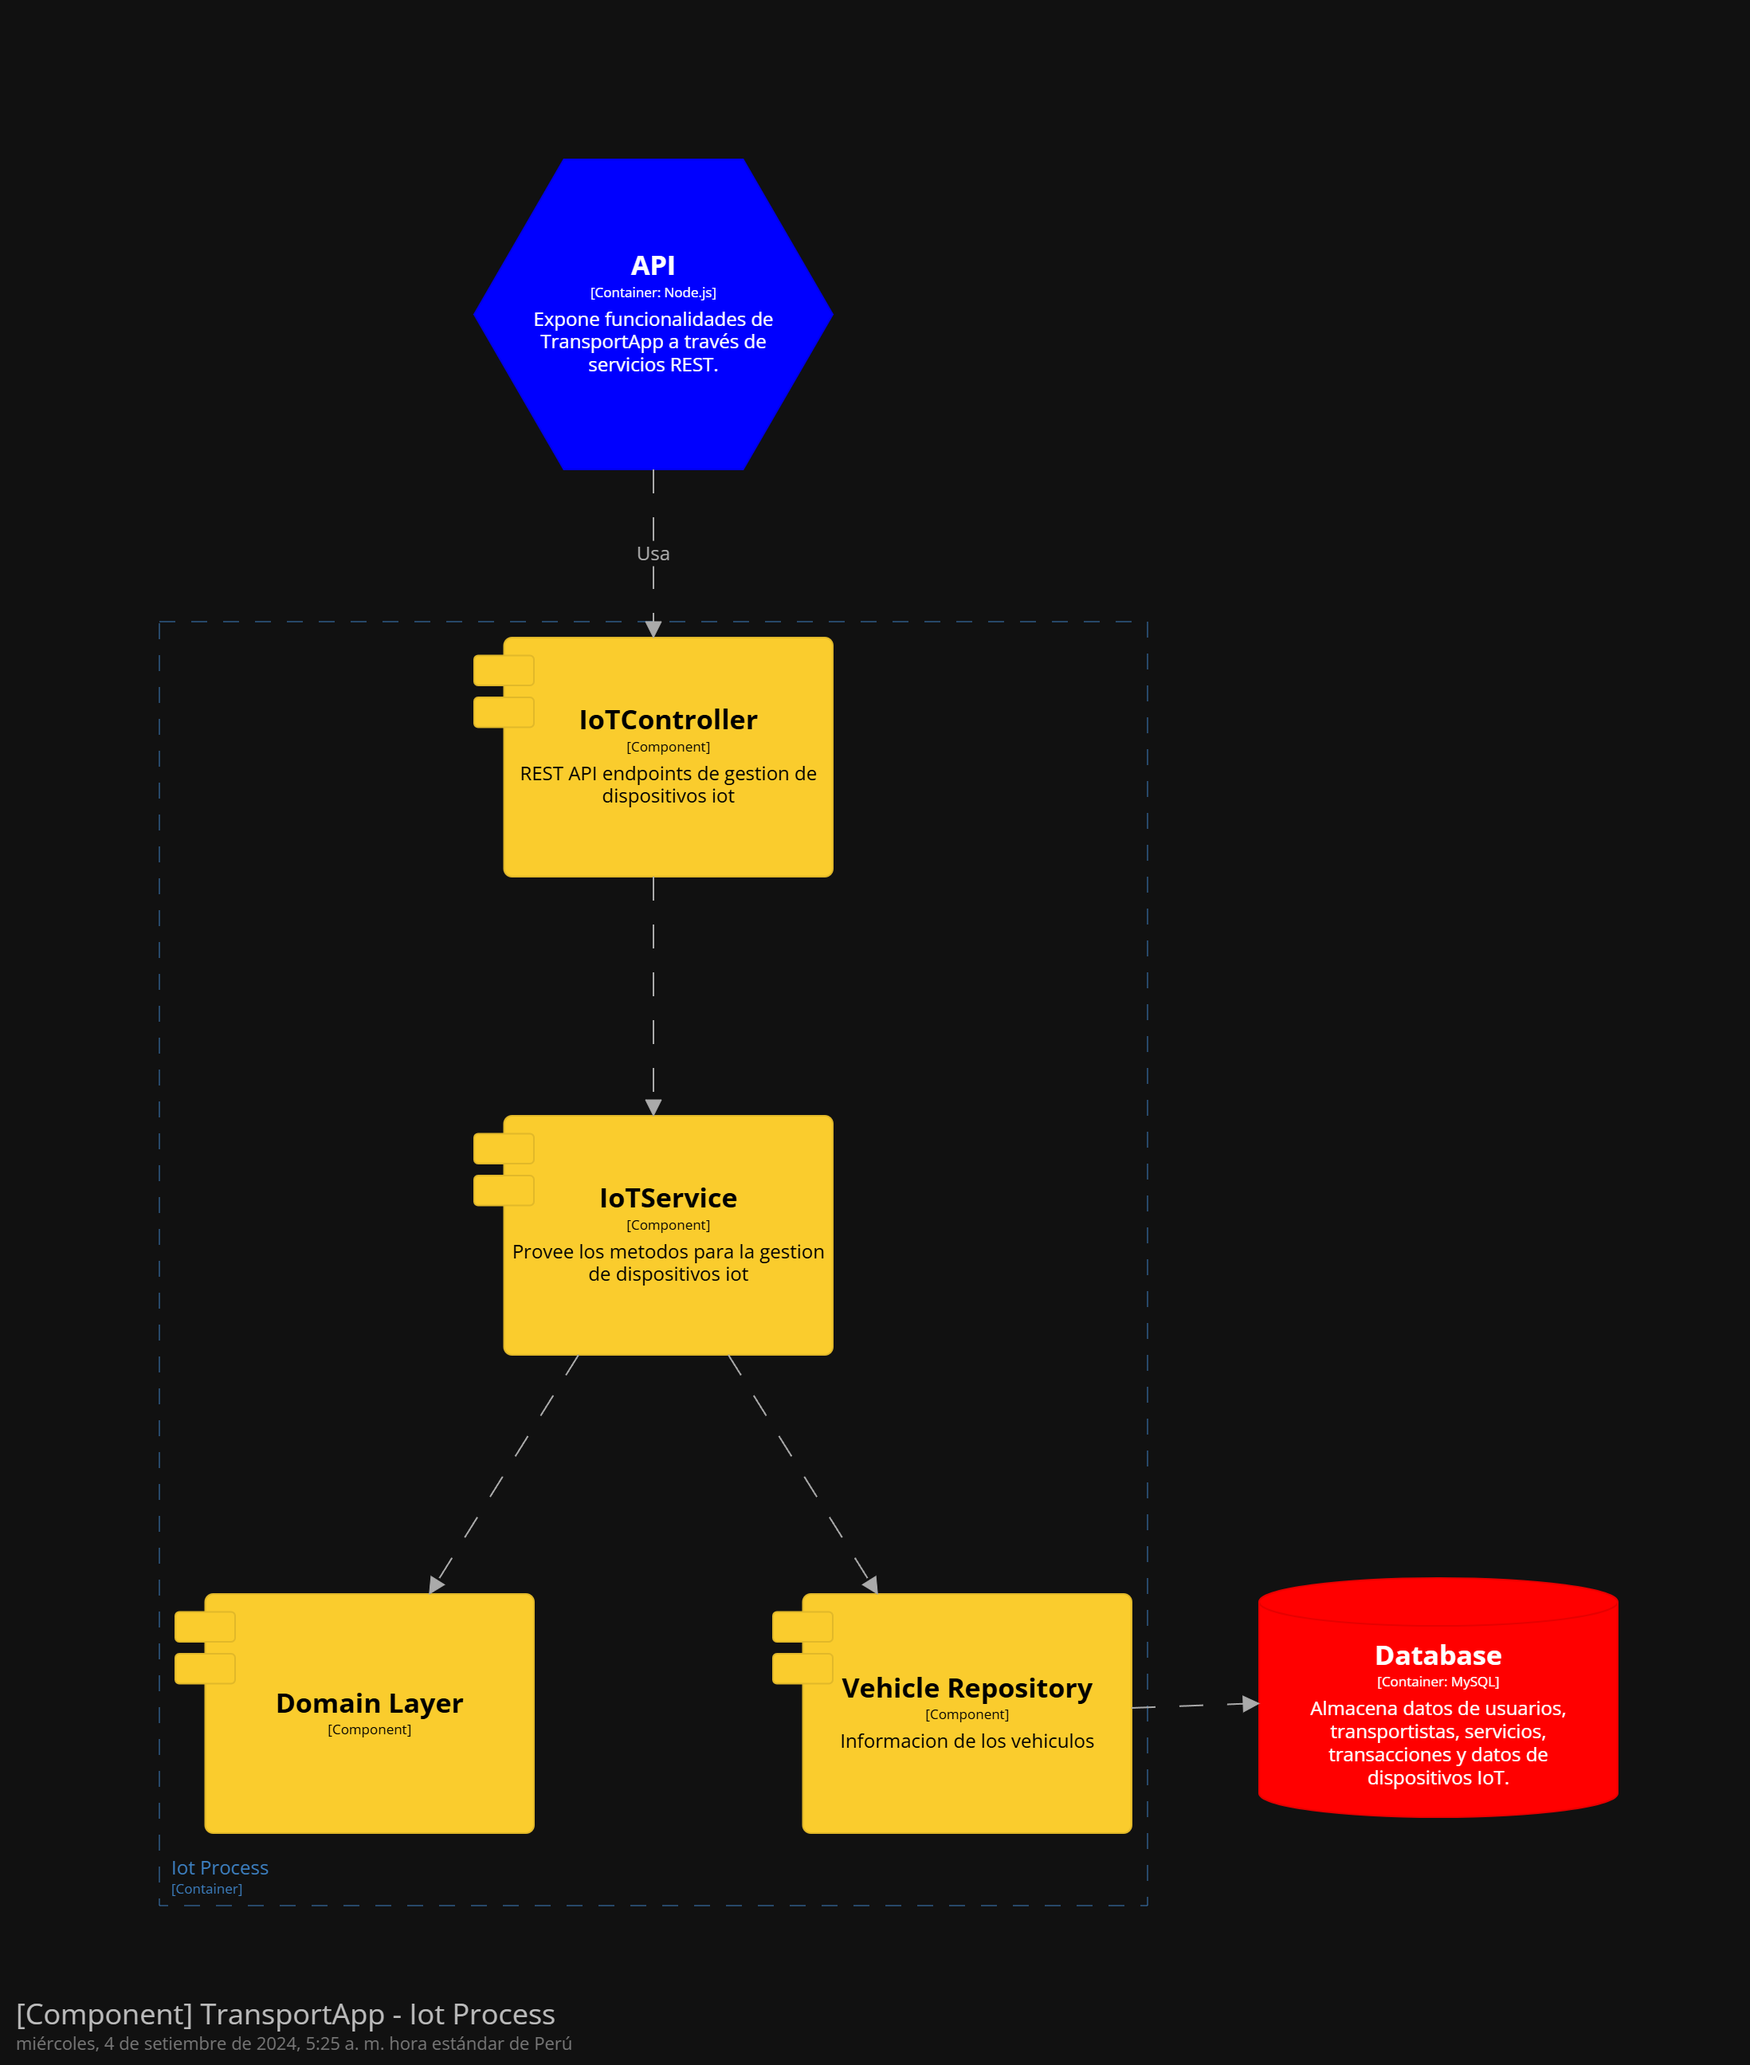
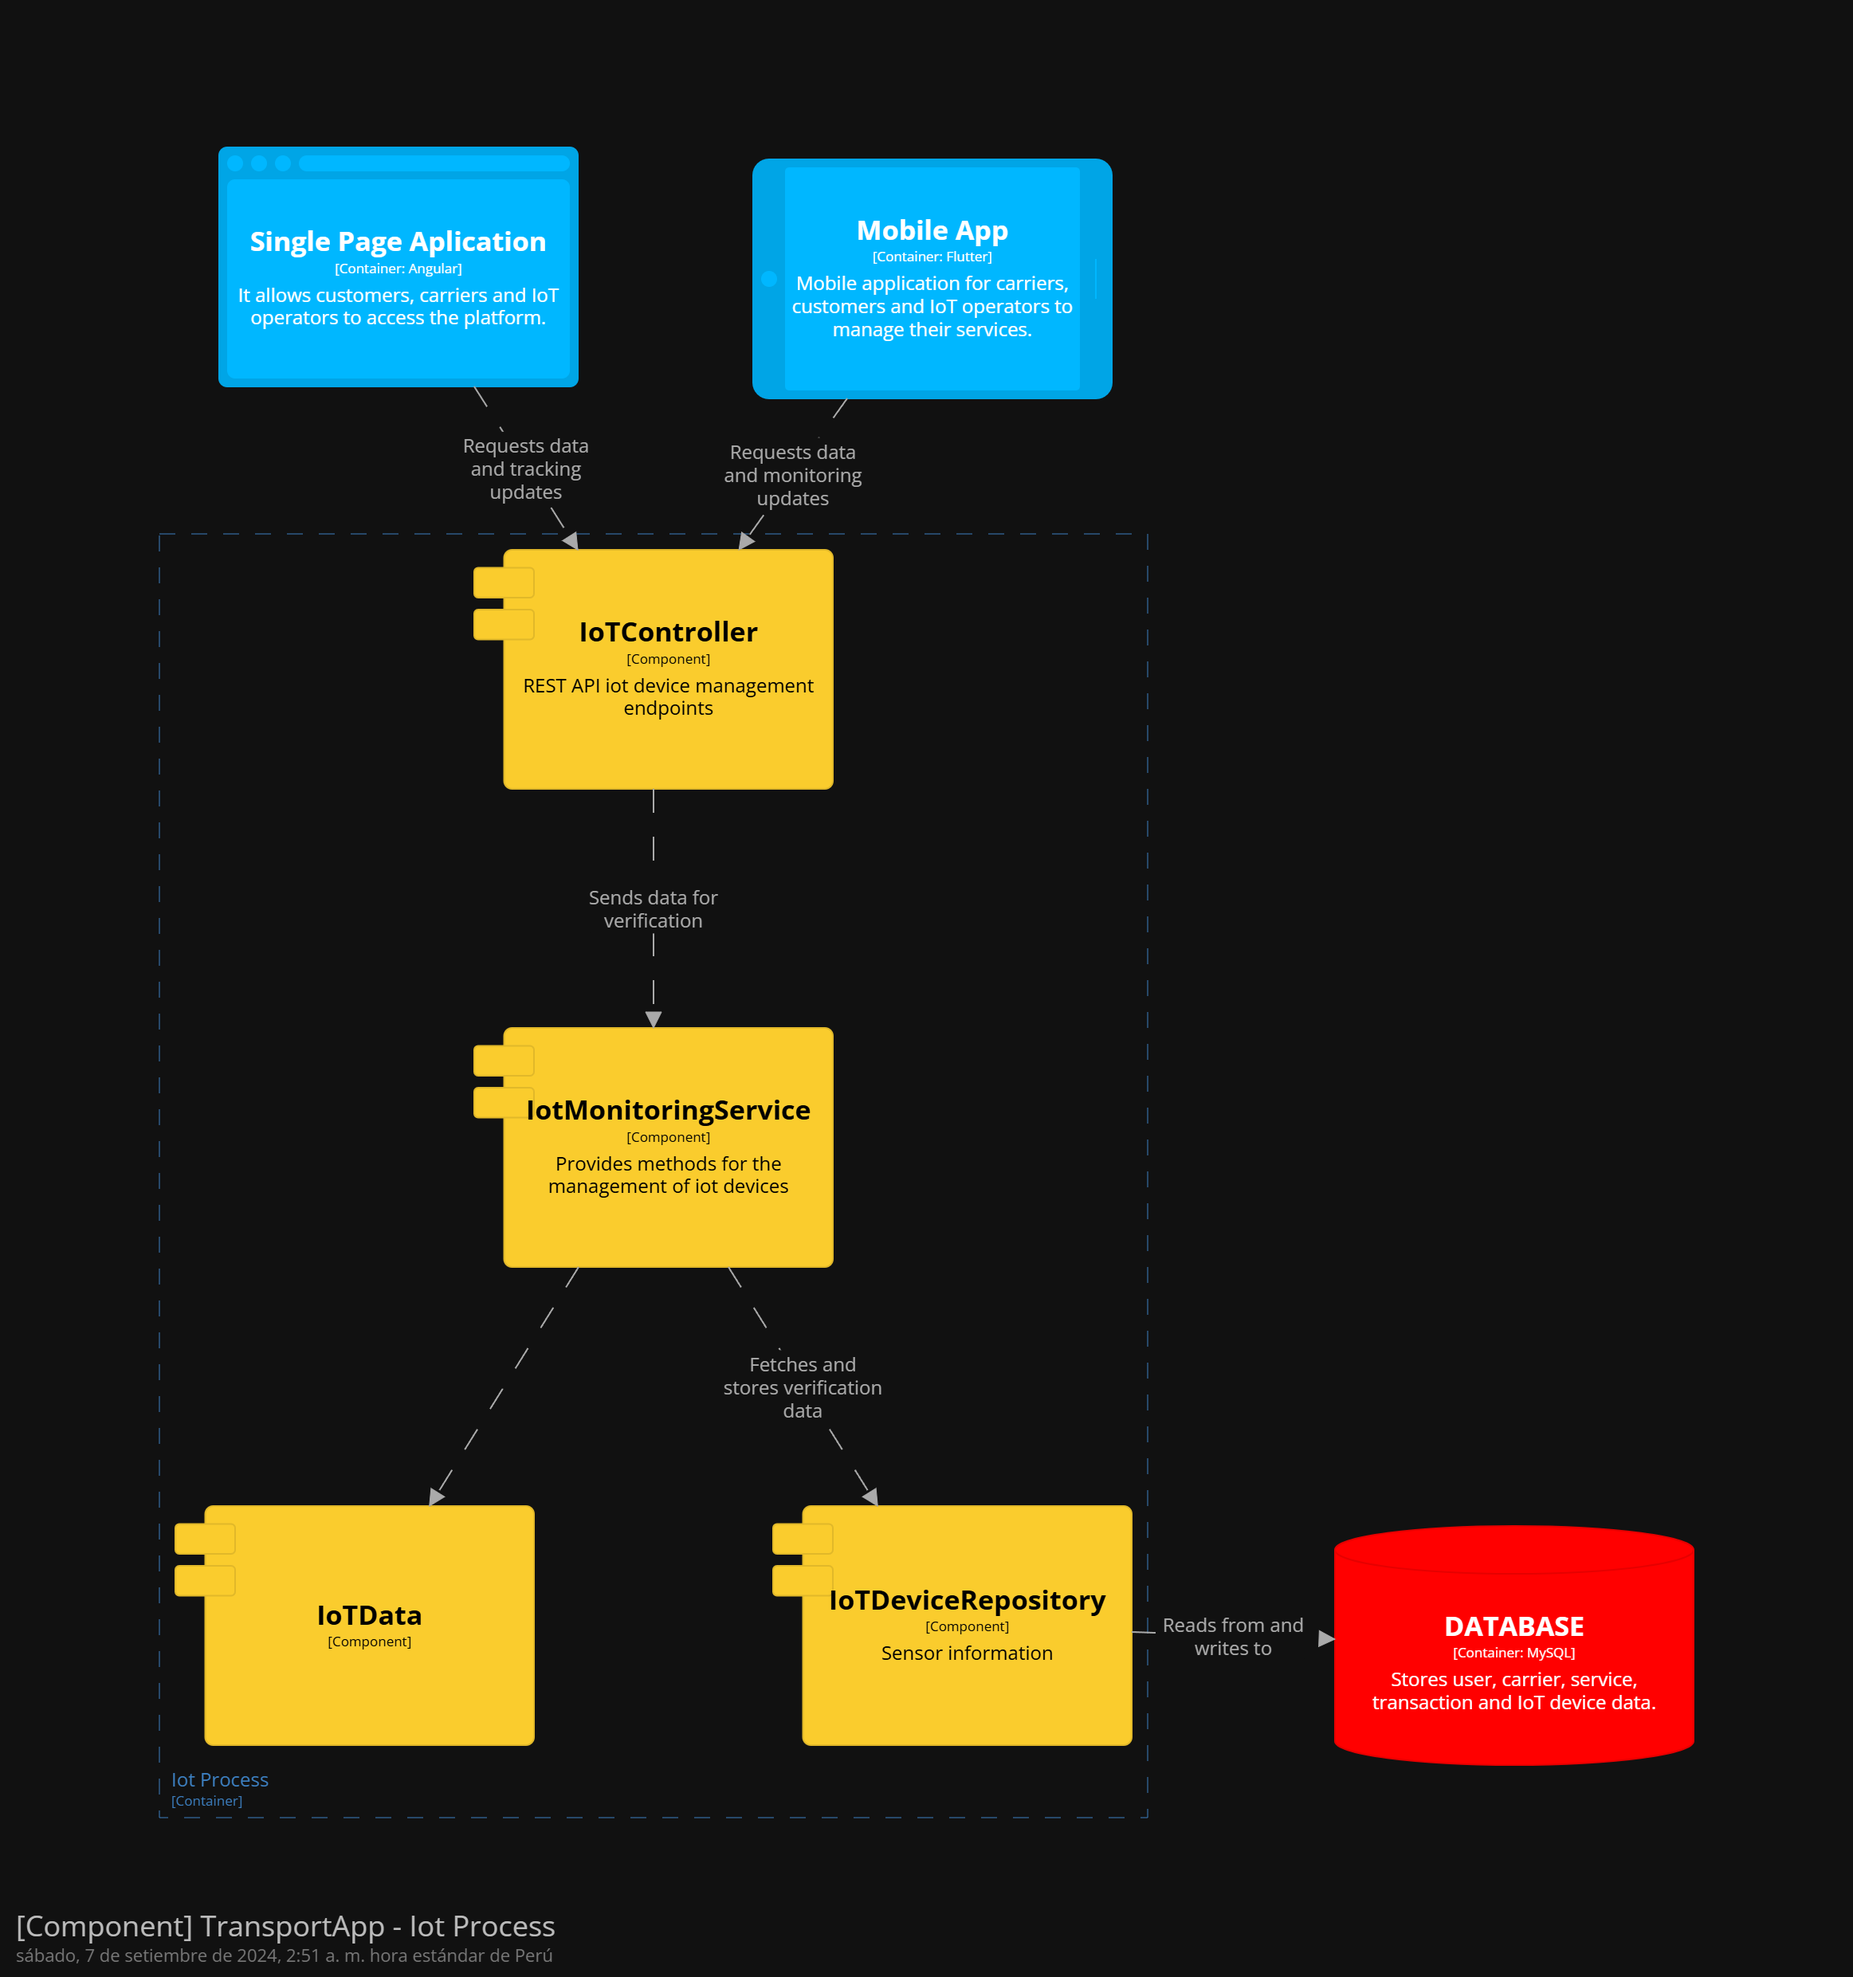
update: refactor IoT Process domain and layers

diff --git a/README.md b/README.md
@@ -482,27 +482,28 @@ Este Bounded Context está diseñado para gestionar los procesos de monitoreo de
 En la Domain Layer, vamos a definir las entidades clave que representan el núcleo de las reglas de negocio del sistema. Aquí se incluyen las entidades del dominio como **Vehículo**, **Sensor**, **Alerta**, y servicios de dominio que gestionan las reglas de negocio.
 
 **Entities**
-	Vehículo:
-		Representa un vehículo en la flota de transporte, el cual contiene sensores que monitorean variables como el peso y la temperatura.
+	IoTDevice:
+		Representa un dispositivo IoT instalado en los vehículos que recopila datos de monitoreo, como la ubicación, la temperatura y el peso.
 		- **Atributos**:
-			- `matricula: String`
-		    - `modelo: String`
-		    - `capacidad: int`
-		    - `sensores: List<Sensor>`
+			- `id: Long`
+			- `status: String`
+			- `location: Location`
+			- `temperature: Float`
+			- `data: IoTData`
 		- **Métodos**:
-		    - `agregarSensor(sensor: Sensor): void`
-		    - `eliminarSensor(sensorId: int): void`
-		    - `obtenerCondicionesActuales(): List<Sensor>`
-	Sensor:
-		Representa un sensor en el vehículo, que monitorea una variable específica como temperatura o peso.
+			- `getStatus(): String`
+			- `getData(): IoTData`
+			- `actualizarValores(newData: IoTData): void`
+	IoTData:
+		Almacena los datos generados por los dispositivos IoT, como la ubicación y la temperatura.
 		- **Atributos**:
-			- `id: int`
-			- `tipo: String` (por ejemplo: "temperatura", "peso")
-			- `parametrosConfigurados: Map<String, Object>`
-			- `valorActual: float`
+			- `deviceId: Long`
+			- `location: Location`
+			- `temperature: Float`
 		- **Métodos**:
-			- `actualizarValor(nuevoValor: float): void`
-			- `generarAlerta(): void`
+			- `getLocation(): Location`
+			- `getTemperature(): Float`
+			- `getDeviceId(): Long`
 	Alerta:
 		Almacena las alertas generadas por valores fuera de rango, tanto de temperatura como de peso.
 		- **Atributos**:
@@ -540,16 +541,12 @@ En la Application Layer, se encuentran las clases que manejan los flujos de los 
 En la Infrastructure Layer, se ubican las clases que acceden a servicios externos, como bases de datos, sistemas de mensajería y servicios de terceros. Aquí también se encuentran las implementaciones de repositorios definidos en el _Domain Layer_.
 
 **Repositorio**
-	VehiculoRepository:
-		Acceso a la base de datos para las operaciones CRUD de vehículos.
+	IoTDeviceRepository:
+		Acceso a la base de datos para las operaciones CRUD de dispositivos IoT.
 		- **Métodos**:
-			- `guardar(vehiculo: Vehiculo): void`
-	        - `obtenerPorId(vehiculoId: int): Vehiculo`
-	SensorRepository:
-		Acceso a la base de datos para las operaciones CRUD de sensores.
-		- **Métodos**:
-			- `guardar(sensor: Sensor): void`
-			- `obtenerPorId(sensorId: int): Sensor`
+			- `guardar(device: IoTDevice): void`
+			- `obtenerPorId(deviceId: Long): IoTDevice`
+			- `obtenerPorEnvio(envioId: Long): List<IoTDevice>`
 **Integración IoT**
 	IoTService:
 		Interfaz para comunicarse con los dispositivos IoT y obtener los datos de sensores.
